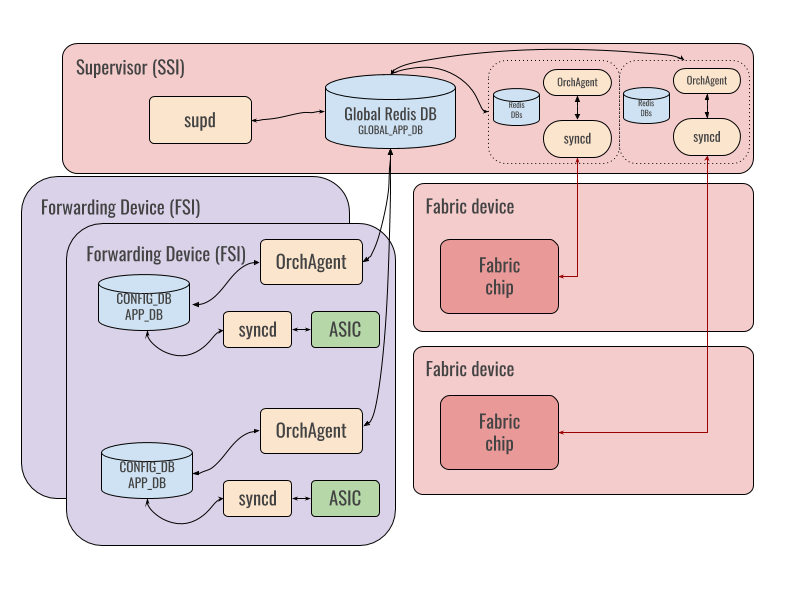
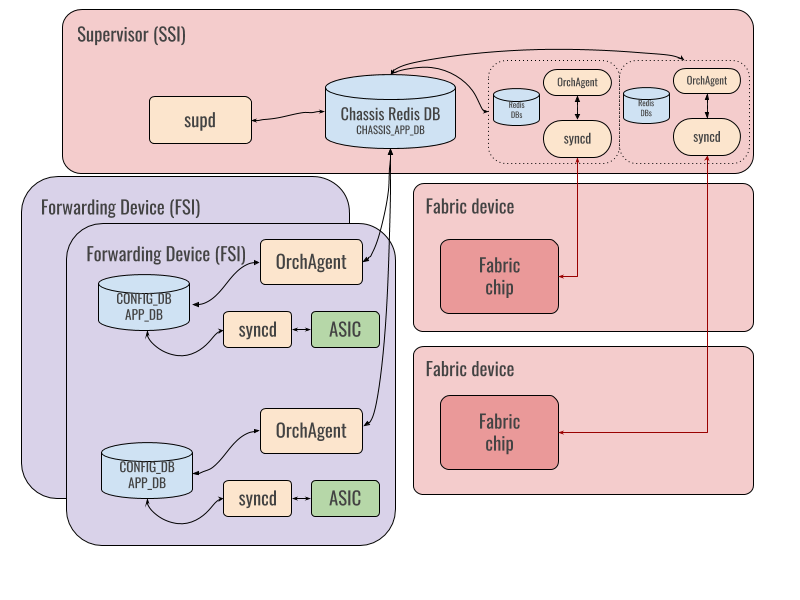
Renaming Global DB to chassis db and misc cleanups

Changed region(s): [[0.0625, 0.0, 0.9688, 0.15], [0.4062, 0.18, 0.5625, 0.24], [0.0625, 0.27, 0.0938, 0.3]]

diff --git a/doc/voq/architecture.md b/doc/voq/architecture.md
@@ -1,7 +1,7 @@
 # Distributed Forwarding in a Virtual Output Queue (VOQ) Architecture
 
 # High Level Design Document
-#### Rev 2.0
+#### Rev 2.1
 
 # Table of Contents
 * [List of Tables](#list-of-tables)
@@ -9,16 +9,16 @@
 * [Revision](#revision)
 * [About this Manual](#about-this-manual)
 * [Scope](#scope)
-* [Definitions/Abbreviation](#definitionsabbreviation)
 * [1 Requirements](#1-requirements)
 * [2 Design](#2-design)
 * [3 Testing](#3-testing)
+* [4 Future Work](#4-future-work)
 
 # List of Tables
-* [Table 1: Abbreviations](#definitionsabbreviation)
+* [Table 1: Abbreviations](#definitions-and-abbreviations) 
 
 # List of Figures
-* [Figure 1: VoQ Distributed Forwarding Architecture](#41-general-flow)
+* [Figure 1: VoQ Distributed Forwarding Architecture](#23-state-sharing)
 
 ###### Revision
 | Rev |     Date    |       Author       | Change Description |      
@@ -27,6 +27,7 @@
 | 0.2 | June-22 2020 | Kartik Chandran (Arista Networks) | First set of review comments from public review |
 | 1.0 | June-26 2020 | Kartik Chandran (Arista Networks) | Final set of review comments from public review |
 | 2.0 | Aug-5 2020 | Kartik Chandran (Arista Networks)   | Revisions after further community review including description of global DB structure, removing sections on system ports, testing and future work to be covered in other documents |
+| 2.1 | Sep-17 2020 | Kartik Chandran (Arista Networks)   | Rename Global DB to Chassis DB  |
 
 # About this Manual
 
@@ -52,7 +53,7 @@ The initial target for this work is a VOQ chassis system in which linecards runn
 However, this architecture makes no hard assumptions about operating within a chassis and can be extended to other form factors with the same VOQ architecture. 
 
 
-# Definitions/Abbreviations
+# Definitions and Abbreviations
 
 |      |                    |                                |
 |------|--------------------|--------------------------------|
@@ -106,13 +107,13 @@ Support for VOQ based forwarding in SONiC is dependent on the [SAI VOQ API](http
 
 ## 2.3 State Sharing
 
-![](../../images/chassis/architecture.png)
+![](../../images/voq/architecture.png)
 
-All state of global interest to the entire system is stored in the SSI in a new Redis instance with a database called “Global DB”. This instance is accessible over the internal management network. FSIs connect to this instance in addition to their own local Redis instance to access and act on this global state.
+All state of global interest to the entire system is stored in the SSI in a new Redis instance with a database called "Chassis DB". This instance is accessible over the internal management network. FSIs connect to this instance in addition to their own local Redis instance to access and act on this global state.
 
-##  2.3.1 Global DB Organization
+##  2.3.1 Chassis DB Organization
 
-The Global DB is hosted in a new redis instance called `redis_global`. This new redis instance runs in a new container known as `docker-database-global`. This ensures both that the global state is isolated from the rest of the databases in the instance and can also be conditionally started only on the SSI.
+The Chassis DB is hosted in a new redis instance called `redis_chassis`. This new redis instance runs in a new container known as `docker-database-chassis`. This ensures both that the global state is isolated from the rest of the databases in the instance and can also be conditionally started only on the SSI.
 
 ### 2.3.1.1 Starting redis_global in the SSI
 
@@ -220,16 +221,16 @@ The details regarding the schemas, Orch agent logic changes and flows are descri
 
 If an FSI fails due to an OS issue or if the hardware is removed from service, then the expected behavior outcome is
 
-- The Global DB connection is torn down
+- The Chassis DB connection is torn down
 - Internal control plane connectivity to that LSI is broken which triggers topology recovergence to avoid use of any forwarding paths through that LSI.
 
-## 2.7.2 Loss of connectivity from working FSI to Global DB 
+## 2.7.2 Loss of connectivity from working FSI to Chassis DB 
 
-Loss of connectivity to the Global DB can prevent forwarding state from other FSIs from being propagated. To avoid traffic impact, The FSI must take defensive action to disconnect from the outside world (for example by ceasing protocol sessions) with neighbors to avoid any traffic flows through the FSI.
+Loss of connectivity to the Chassis DB can prevent forwarding state from other FSIs from being propagated. To avoid traffic impact, The FSI must take defensive action to disconnect from the outside world (for example by ceasing protocol sessions) with neighbors to avoid any traffic flows through the FSI.
 
 ## 2.7.3 SSI Device or OS failure
 
-Failure of the SSI at the very least results in loss of connectivity to the Global DB and the actions described in 2.7.2 take place on all FSIs leading to the entire system being disconnected from the outside world.
+Failure of the SSI at the very least results in loss of connectivity to the Chassis DB and the actions described in 2.7.2 take place on all FSIs leading to the entire system being disconnected from the outside world.
 
 # 3 Testing
 
@@ -269,7 +270,7 @@ Warm standby can be supported in SWSS as follows
 
 - Gracefully handle the loss of connectivity to the SSI and terminate OrchAgent, syncd and all related containers
 - Modify the Redis database address that the FSI needs to connect to
-- Start all the containers which will now connect to the standby Global DB and continue operation.
+- Start all the containers which will now connect to the standby Chassis DB and continue operation.
 
 ### Hot Standby
 
@@ -277,9 +278,9 @@ In the hot standby mode, the standby supervisor has the control plane running in
 
 At a high level, hot standby mode requires
 
-- Starting the Global DB on standby SSI in standby mode where it mirrors the active Global DB.
-- Live sync of Global DB state between active and standby Global DB.
+- Starting the Chassis DB on standby SSI in standby mode where it mirrors the active Chassis DB.
+- Live sync of Chassis DB state between active and standby Chassis DB.
 - Graceful handling in OrchAgent of loss of connectivity to SSI and continuing to operate autonomously.
-- Reconnecting to Global DB when Standby SSI is ready.
-- Reconciling relevant Global DB state with SAI Asic DB state and modifying SAI state as appropriate to be in sync with Global DB.
+- Reconnecting to Chassis DB when Standby SSI is ready.
+- Reconciling relevant Chassis DB state with SAI Asic DB state and modifying SAI state as appropriate to be in sync with Chassis DB.
   
